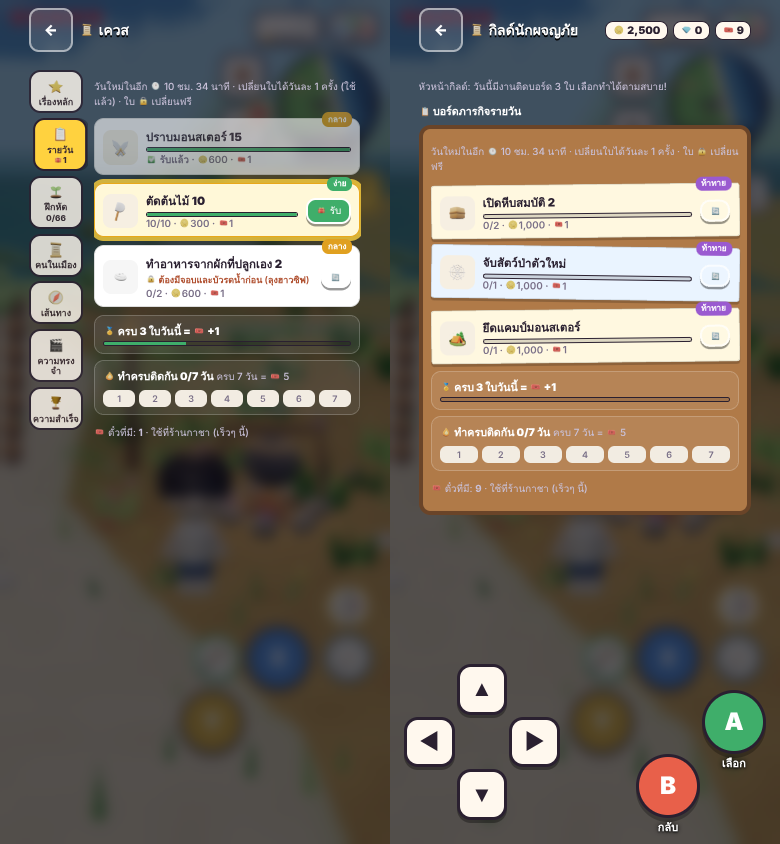
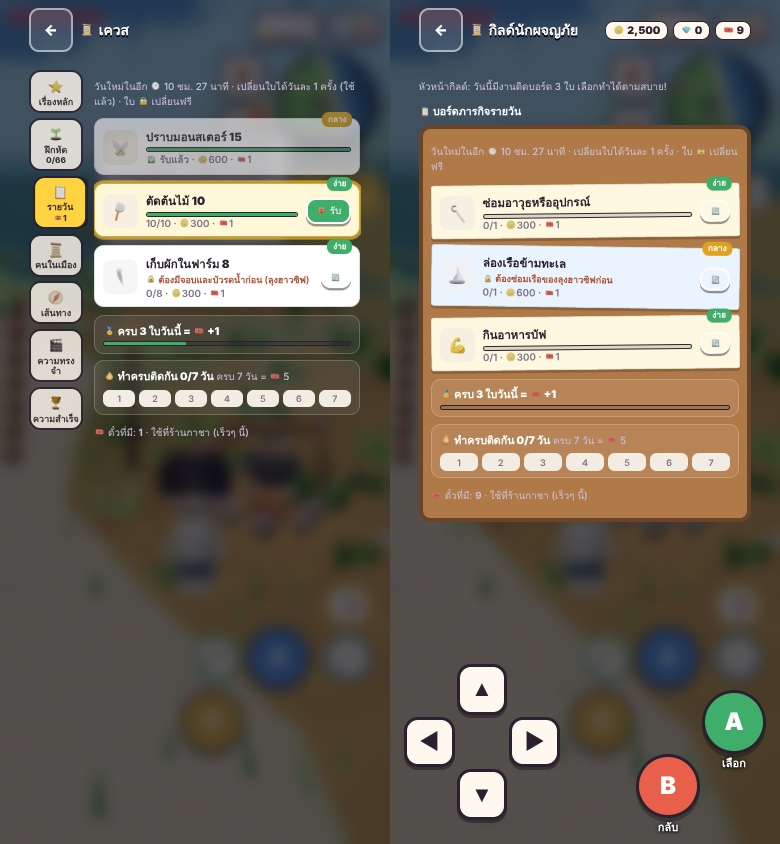
feat(newgame): 📋 daily tab after 🌱 ฝึกหัด; tests follow the new tab order
Claude-Session: https://claude.ai/code/session_01GPWeNez232vT9ersFNk7wt

diff --git a/newgame/src/main.js b/newgame/src/main.js
@@ -1811,7 +1811,7 @@ let bcT = 0; function beaconArrive(now) { if (now < bcT || !S.beacons) return; b
   S.beacons.forEach((bc, i) => { if (!bc) return; const d = dist(q.x, q.z, bc.x, bc.z); if (d > D.PINS.arrive * 2) bc.away = 1; if (bc.away && d < D.PINS.arrive) { S.beacons[i] = null; sfx('level'); toast(`🔆 ถึงหมุดลำแสงแล้ว · เก็บหมุดให้เรียบร้อย`, 1800); save(); beaconsView() } }) }
 function miniBeacons(g, P, c0, dpr) { for (const bc of S.beacons || []) { if (!bc) continue; let [x, y] = P(bc.x, bc.z); const dx = x - c0, dy = y - c0, d = Math.hypot(dx, dy), rr = c0 * .86; if (d > rr) { x = c0 + dx / d * rr; y = c0 + dy / d * rr } g.fillStyle = D.PINS.beam[bc.c]; g.strokeStyle = '#fff'; g.lineWidth = 2 * dpr; g.beginPath(); g.arc(x, y, 4.5 * dpr, 0, 7); g.fill(); g.stroke() } }
 /* ================= v3.74 📜 the quest page: sections (◀▶): เควสหลัก · เควส NPC · Memories · ความสำเร็จ · ▲▼ pick · A = follow it (blinks on the map) · X = walk there by itself · B = back ================= */
-const QSUB = [['main', '⭐', 'เรื่องหลัก'], ['daily', '📋', 'รายวัน'], ['starter', '🌱', 'ฝึกหัด'], ['npc', '📜', 'คนในเมือง'], ['paths', '🧭', 'เส้นทาง'], ['mem', '🎬', 'ความทรงจำ'], ['ach', '🏆', 'ความสำเร็จ']];
+const QSUB = [['main', '⭐', 'เรื่องหลัก'], ['starter', '🌱', 'ฝึกหัด'], ['daily', '📋', 'รายวัน'], ['npc', '📜', 'คนในเมือง'], ['paths', '🧭', 'เส้นทาง'], ['mem', '🎬', 'ความทรงจำ'], ['ach', '🏆', 'ความสำเร็จ']];
 let qSub = 'main', qSel = null;
 const MEMS = [['intro', '🌅', 'คืนที่ทุกอย่างหายไป', () => S.story.intro, () => startIntro(true)], ['title', '⛵', 'ข้ามทะเลสู่แผ่นดินใหญ่', () => S.story.titleSeen, () => memPlay(playTitle)], ['pet', '🐾', 'เงาดำในป่า', () => S.story.freed, () => memPlay(playPetRescue)], ['flash', '🎞', 'ความทรงจำของ Sberh', () => S.story.flashback, () => memPlay(playFlashback)]];
 async function memPlay(fn) { if (CUT) return; CUT = true; closeSheets(); document.body.classList.add('cut'); try { await fn(R, S.profile.name) } catch (e) { console.warn(e) } document.body.classList.remove('cut'); CUT = false; last = performance.now(); ambience() }

diff --git a/newgame/tools/test/atlas.js b/newgame/tools/test/atlas.js
@@ -34,6 +34,6 @@ const ROOT = path.resolve(__dirname, '../../..'), PORT = 8874, OUT = process.arg
       await E(() => document.getElementById('mini').click()); await wait(1200) }
     await E(() => { const N = window.__ng; N.S.pins = Array.from({ length: 100 }, (_, i) => ({ x: i, z: 0, ic: '⭐' })) }); await E(() => window.__ng.pinPick(0, 50)); await wait(400); const full = await E(() => document.querySelector('[data-pin="⭐"]').disabled); if (!full) errs.push('100 pins = no more'); await E(() => { document.querySelectorAll('.ov.dlg').forEach(o => o.remove()); window.__ng.S.pins = [] });
     { const bar = await E(() => !!document.querySelector('.ov .atlasT')); log('v3.91 map alone (no page row)', !bar); if (bar) errs.push('v3.91 the minimap opens the map alone') }
-    await E(() => window.__ng.openAtlas('quest')); await wait(600); await E(() => { window.__ng.navCur(); window.__ng.navMove('down') }); await wait(500); const qs = await E(() => window.__ng.qSub); await E(() => { window.__ng.qSubStep(1); window.__ng.qSubStep(1); window.__ng.qSubStep(1) });   /* v4.64 ⭐ → 🌱 ฝึกหัด → 📜 NPC → 🧭 เส้นทาง → 🎬 */ await wait(500); const mem = await E(() => document.querySelectorAll('.ov [data-mem]').length); log('sections', qs, 'memories', mem); await pg.screenshot({ path: OUT + '/2-mem.png' }); if (qs !== 'starter' || mem < 1) errs.push('◀▶ should switch the quest sections · memories should list the intro');
+    await E(() => window.__ng.openAtlas('quest')); await wait(600); await E(() => { window.__ng.navCur(); window.__ng.navMove('down') }); await wait(500); const qs = await E(() => window.__ng.qSub); await E(() => { window.__ng.qSubStep(1); window.__ng.qSubStep(1); window.__ng.qSubStep(1); window.__ng.qSubStep(1) });   /* v4.64 ⭐ → 🌱 ฝึกหัด → (v4.79 📋 รายวัน) → 📜 NPC → 🧭 เส้นทาง → 🎬 */ await wait(500); const mem = await E(() => document.querySelectorAll('.ov [data-mem]').length); log('sections', qs, 'memories', mem); await pg.screenshot({ path: OUT + '/2-mem.png' }); if (qs !== 'starter' || mem < 1) errs.push('◀▶ should switch the quest sections · memories should list the intro');
   } catch (e) { errs.push('X ' + e.stack) }
   await b.close(); srv.kill(); if (errs.length) { console.log('ERRORS\n' + errs.join('\n')); process.exit(1) } console.log('no page errors') })();

diff --git a/newgame/tools/test/starter154.js b/newgame/tools/test/starter154.js
@@ -14,7 +14,7 @@ const ROOT = require('path').resolve(__dirname, '../../..'), PORT = 8921, OUT = 
     const a1 = await E(() => { const N = window.__ng, T = k => N.D.STARTER.find(t => t.k === k); return { coin: N.S.coin, tree: N.sqStep(T('tree')), n: N.S.sq.n, t: document.getElementById('toast').innerText } }); log('done', c0, JSON.stringify(a1));
     if (a1.coin !== c0 || a1.tree !== 0 || !(a1.n || {}).tree || !(a1.n || {}).draw) errs.push('v4.61 a finished step pops up once and waits for 🎁 (no reward by itself)');
     await E(() => { window.__ng.qSub = 'starter'; window.__ng.openQuests() }); await wait(1200); await pg.screenshot({ path: OUT + '/q1.png' });
-    const tabs = await E(() => [...document.querySelectorAll('.ov.qatl .up2t [data-qs]')].map(e => e.dataset.qs).join()); log('tabs', tabs); if (!/main,starter,npc/.test(tabs)) errs.push('v4.61 the quest page has side tabs (เรื่องหลัก · ฝึกหัด · คนในเมือง …)');
+    const tabs = await E(() => [...document.querySelectorAll('.ov.qatl .up2t [data-qs]')].map(e => e.dataset.qs).join()); log('tabs', tabs); if (!/main,starter,daily,npc/.test(tabs)) errs.push('v4.61 the quest page has side tabs (เรื่องหลัก · ฝึกหัด · คนในเมือง …)');
     await E(() => document.querySelector('.ov [data-sq="tree"]').click()); await wait(400); await E(() => document.getElementById('sqGet').click()); await wait(500); const cl = await E(() => ({ coin: window.__ng.S.coin, st: window.__ng.sqStep(window.__ng.D.STARTER[0]) })); log('claim', JSON.stringify(cl)); if (cl.coin !== c0 + 50 || cl.st !== 1) errs.push('🎁 รับรางวัล should give 🪙 50 and move to step 2');
     const rows = await E(() => [...document.querySelectorAll('.ov .up2g [data-sq]')].map(e => e.innerText.replace(/\n/g, ' '))); log('cards', rows.length, rows.slice(0, 2)); const nCh = await E(() => window.__ng.D.STARTER.length); if (rows.length !== nCh || !/4\/10/.test(rows[0])) errs.push('the 🌱 page: a card per chain (ตัดต้นไม้ 4/10)');
     if (await E(() => !!document.getElementById('sqCard'))) errs.push('no corner card any more');
